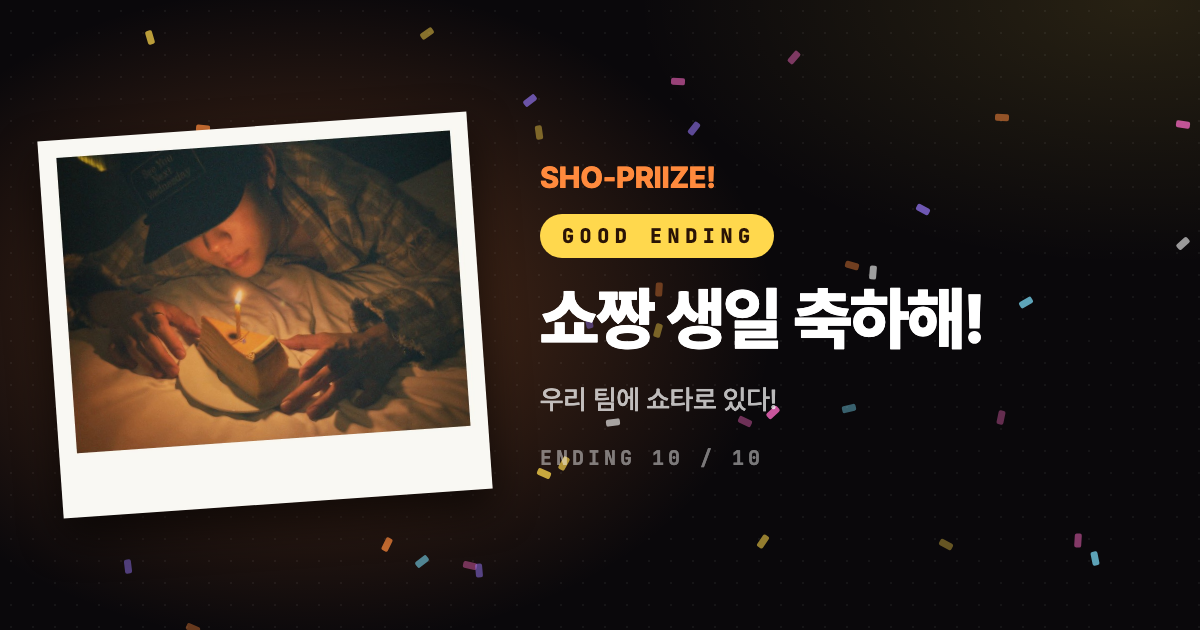
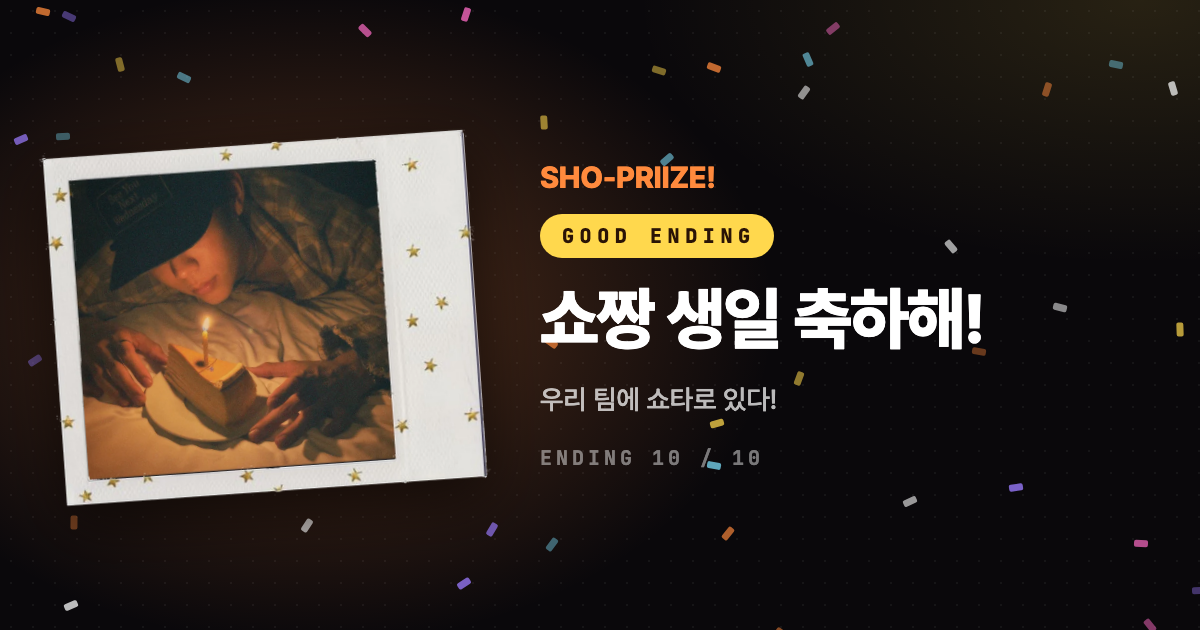
update 2026-11-18 00:56

diff --git a/css/style.css b/css/style.css
@@ -617,16 +617,16 @@ html:not(.dev) #ph .ph-label { display: none; }
 .pola-intro.leave { opacity: 0; }
 .pi-flash { position: absolute; inset: 0; background: #fff; opacity: 0; animation: piFlash .6s ease-out both; }
 @keyframes piFlash { 0% { opacity: .85; } 100% { opacity: 0; } }
-.pi-photo { position: relative; width: min(76cqw, 340px); rotate: -2deg; box-shadow: 0 16px 40px rgba(0,0,0,.55);
+.pi-photo { position: relative; width: min(82cqw, 360px); rotate: -2deg; filter: drop-shadow(0 16px 30px rgba(0,0,0,.55));
   animation: piIn .7s cubic-bezier(.2,1.2,.4,1) both; }
 .pi-photo img { display: block; width: 100%; }
 /* 아무것도 안 찍힌 필름 면 → 천천히 걷히며 사진이 드러남 */
-.pi-dev { position: absolute; left: 4.13%; top: 4.7%; width: 91.74%; height: 78.33%; background: linear-gradient(160deg, rgba(46,49,56,.96), rgba(34,37,43,.96));
+.pi-dev { position: absolute; left: 6.7%; top: 8.36%; width: 71.2%; height: 84.36%; background: linear-gradient(160deg, rgba(46,49,56,.96), rgba(34,37,43,.96));
   -webkit-backdrop-filter: blur(8px) sepia(.5); backdrop-filter: blur(8px) sepia(.5); animation: piDev 4.4s cubic-bezier(.5,0,.6,1) .5s forwards; }
 @keyframes piIn { from { opacity: 0; transform: translateY(24px) scale(.94); } to { opacity: 1; transform: none; } }
 @keyframes piImg { to { filter: none; } }
 @keyframes piDev { 0% { opacity: 1; } 35% { opacity: .85; } 100% { opacity: 0; } }
-#ending .end-art.polaroid { width: min(62%, 250px); aspect-ratio: 872 / 766; rotate: -3deg; box-shadow: 0 12px 30px rgba(0,0,0,.55); }
+#ending .end-art.polaroid { width: min(66%, 270px); aspect-ratio: 860 / 710; rotate: -3deg; filter: drop-shadow(0 12px 24px rgba(0,0,0,.55)); }
 
 /* ── 영상 위 문자 알림 + 긴급상황 답장 (원빈) ── */
 .cnoti { position: absolute; inset: 0; z-index: 13; pointer-events: none; }
@@ -688,6 +688,7 @@ html:not(.dev) #ph .ph-label { display: none; }
   text-shadow: 0 0 6px #000, 0 0 16px rgba(255,140,40,.95); translate: 0 var(--dy, 0); }
 .mission[data-step="3"] .ms-pull { opacity: 1; animation: msPull 1s ease-in-out infinite; }
 .mission.off .ms-pull { opacity: 0; animation: none; }
+.mission[data-step="2"] .ms-stick { transform-origin: 50% -4.5cqw; }
 .mission.held .ms-stick { rotate: -50deg; }
 .mission.off .ms-dark { opacity: .97; transition: opacity .12s; }
 .mission.dark .ms-dark { opacity: .97; }

diff --git a/js/story.js b/js/story.js
@@ -560,7 +560,7 @@ window.STORY = {
       auto: 1000,
       next: 'c_wonbin2',
     },
-    // 건너뛰기 불가. 재생 중 원빈 문자가 위에 알림으로 → 19초 뒤 긴급상황: 3초 안에 알림 눌러 'ㄴㄴ 끊지마' 전송
+    // 건너뛰기 불가. 재생 중 원빈 문자가 위에 알림으로 → 19초 뒤 긴급상황: 6초 안에 알림 눌러 'ㄴㄴ 끊지마' 전송
     c_wonbin2: {
       type: 'clip', src: 'media/clips/wonbin2.mp4',
       noSkip: true,
@@ -581,7 +581,7 @@ window.STORY = {
         at: 19.6,
         text: '원빈이에게 끊지 말라고 답장해주세요!',
         placeholder: 'ㄴㄴ 끊지마', answer: 'ㄴㄴ 끊지마',   // 띄어쓰기는 상관없음
-        time: 3,   // 긴급상황 뜬 뒤 알림 누르고 입력·전송까지 3초
+        time: 6,   // 긴급상황 뜬 뒤 알림 누르고 입력·전송까지 6초
         success: 'n_wonbin_ok', fail: 'c_wonbin3',
       },
     },
@@ -821,8 +821,8 @@ window.STORY = {
     m_alone: {
       type: 'mission',
       time: 6,    // 제한 시간(초)
-      taps: 9,    // 1단계: 1초 안에 몇 번 연타
-      hold: 3,    // 2단계: 심지에 대고 있을 시간(초)
+      taps: 6,    // 1단계: 1초 안에 몇 번 연타
+      hold: 2,    // 2단계: 심지에 대고 있을 시간(초)
       route: { title: '6초 미션', thumb: 'media/images/thumbs/m_alone.jpg' },
       success: 'c_alone_good',
       fail: 'n_alone_fail',
@@ -853,7 +853,7 @@ window.STORY = {
       title: '쇼짱 생일 축하해!',
       kind: 'good',
       // 굿 그림 대신 폴라로이드: 찰칵 → 사진이 천천히 나온 뒤 엔딩 카드
-      polaroid: 'media/images/alone/polaroid.jpg',
+      polaroid: 'media/images/alone/polaroid.webp',
       route: { thumb: 'media/images/thumbs/e_good_alone.jpg' },
       desc: '우리 팀에 쇼타로 있다!',
       bg: ['#4a3a1a', '#0c0a04'],

diff --git a/js/engine.js b/js/engine.js
@@ -1436,9 +1436,8 @@
     let drag = null, holdMs = 0, holdLast = 0, near = false;
     const home = () => { stick.style.transition = 'translate .35s cubic-bezier(.3,1.4,.5,1), rotate .3s ease'; stick.style.translate = ''; };
     // 위치는 놀이판 기준 cqw 로 계산 (CSS 와 같은 숫자): 성냥 불꽃 기본 위치 → 끈 만큼 이동, 심지 위치
-    // 잡으면 성냥을 손으로 든 것처럼 아래쪽(손잡이)을 축으로 대각선으로 기울임 → 불꽃 위치도 그만큼
-    const TILT = -50 * Math.PI / 180, GRIP = { x: 74.5, y: 118 }, LEN = 59;
-    const FLAME = { x: GRIP.x + LEN * Math.sin(TILT), y: GRIP.y - LEN * Math.cos(TILT) }, WICK = { x: 51.7, y: 20.2 };
+    // 잡으면 성냥을 손으로 든 것처럼 대각선으로 기울임 — 불꽃을 축으로 돌아서 불붙은 부분은 제자리
+    const FLAME = { x: 74.5, y: 59 }, WICK = { x: 51.7, y: 20.2 };
     const candleOn = q('.ms-candle.on');
     function holdTick() {
       const now = performance.now();
@@ -1462,7 +1461,7 @@
     }
     function step2() {
       setStep(2);
-      say('2단계 · 초에 불을 붙여주세요!', '불붙은 성냥을 끌어다 <b>심지에 3초간</b> 대고 있어요');
+      say('2단계 · 초에 불을 붙여주세요!', `불붙은 성냥을 끌어다 <b>심지에 ${HOLD / 1000}초간</b> 대고 있어요`);
     }
 
     // ── ③ 불 끄기 (스위치 내리기)
